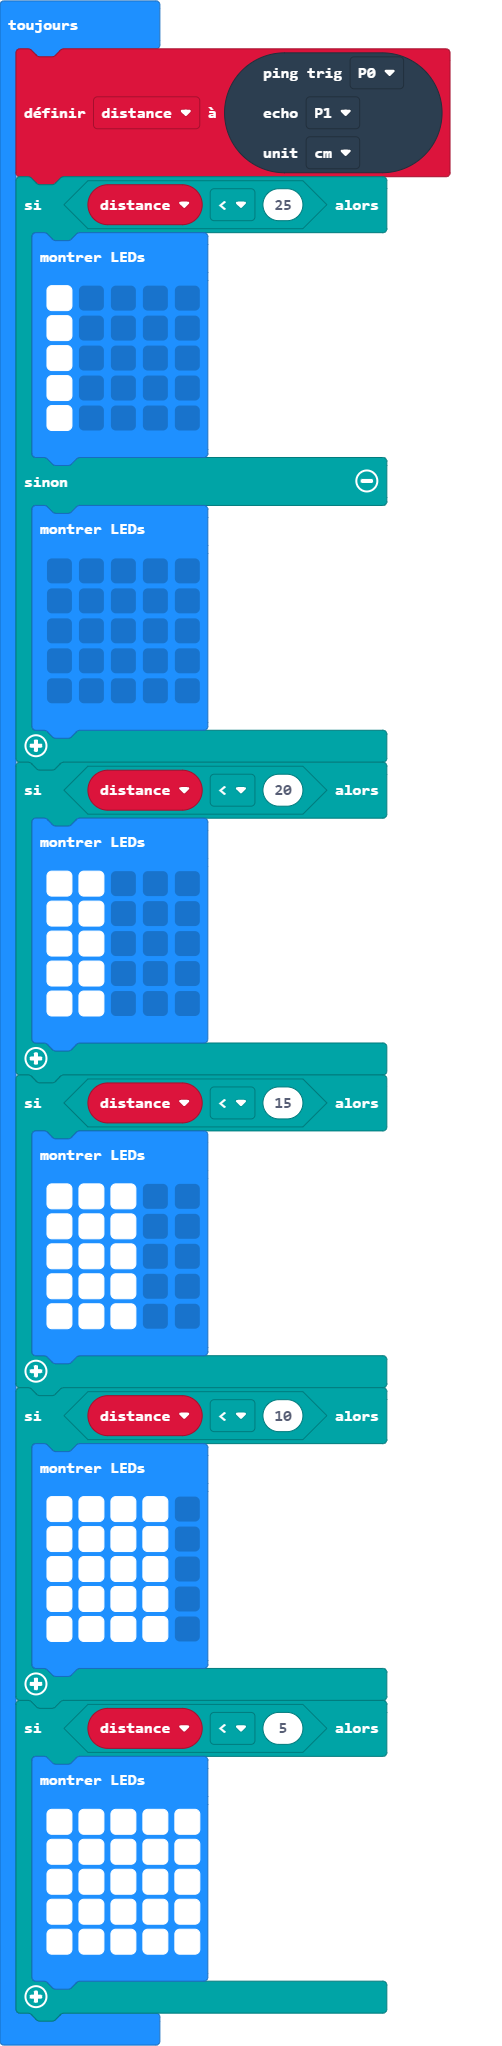
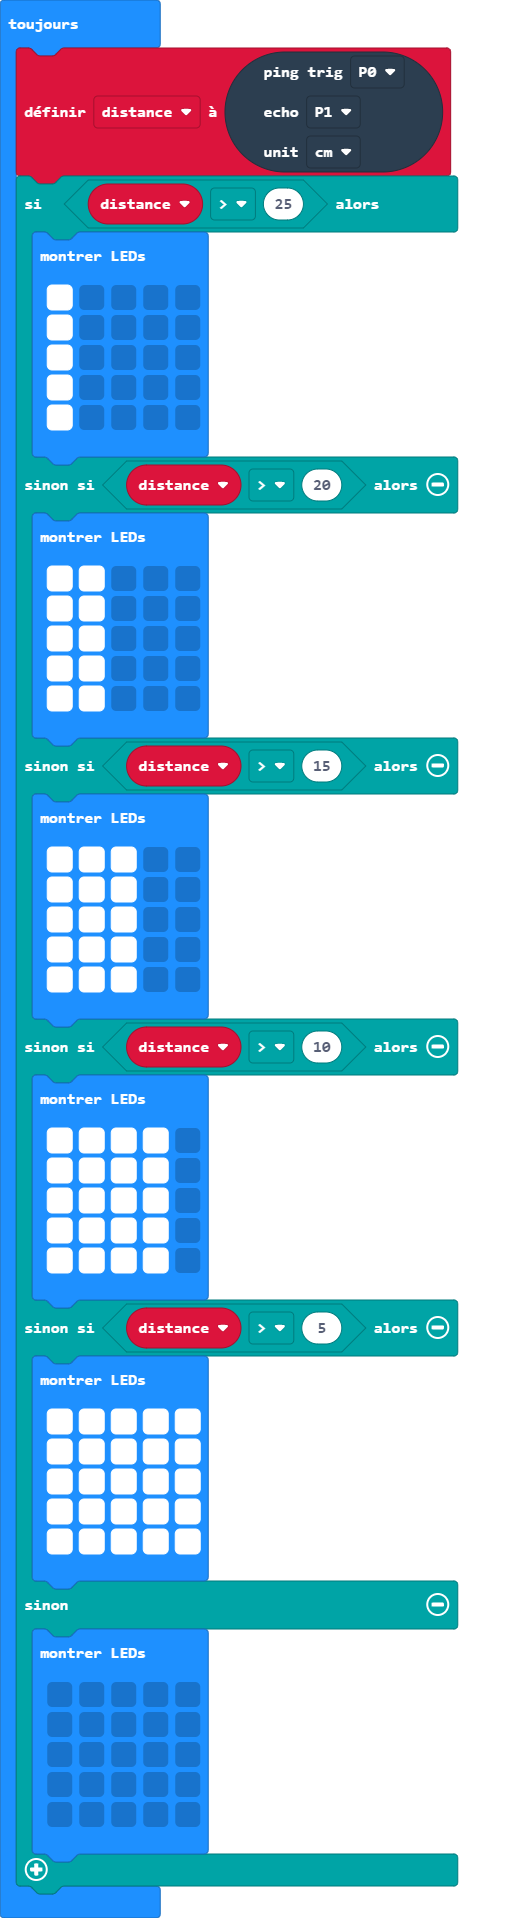
Mise à jour main.blocks, main.ts

Changed region(s): [[0.0299, 0.0, 0.9263, 1.0]]

diff --git a/main.ts b/main.ts
@@ -5,13 +5,45 @@ basic.forever(function () {
     DigitalPin.P1,
     PingUnit.Centimeters
     )
-    if (distance < 25) {
+    if (distance > 25) {
         basic.showLeds(`
             # . . . .
             # . . . .
             # . . . .
             # . . . .
             # . . . .
+            `)
+    } else if (distance > 20) {
+        basic.showLeds(`
+            # # . . .
+            # # . . .
+            # # . . .
+            # # . . .
+            # # . . .
+            `)
+    } else if (distance > 15) {
+        basic.showLeds(`
+            # # # . .
+            # # # . .
+            # # # . .
+            # # # . .
+            # # # . .
+            `)
+    } else if (distance > 10) {
+        basic.showLeds(`
+            # # # # .
+            # # # # .
+            # # # # .
+            # # # # .
+            # # # # .
+            `)
+    } else if (distance > 5) {
+        basic.showLeds(`
+            # # # # #
+            # # # # #
+            # # # # #
+            # # # # #
+            # # # # #
             `)
     } else {
         basic.showLeds(`
@@ -20,42 +52,6 @@ basic.forever(function () {
             . . . . .
             . . . . .
             . . . . .
-            `)
-    }
-    if (distance < 20) {
-        basic.showLeds(`
-            # # . . .
-            # # . . .
-            # # . . .
-            # # . . .
-            # # . . .
-            `)
-    }
-    if (distance < 15) {
-        basic.showLeds(`
-            # # # . .
-            # # # . .
-            # # # . .
-            # # # . .
-            # # # . .
-            `)
-    }
-    if (distance < 10) {
-        basic.showLeds(`
-            # # # # .
-            # # # # .
-            # # # # .
-            # # # # .
-            # # # # .
-            `)
-    }
-    if (distance < 5) {
-        basic.showLeds(`
-            # # # # #
-            # # # # #
-            # # # # #
-            # # # # #
-            # # # # #
             `)
     }
 })
